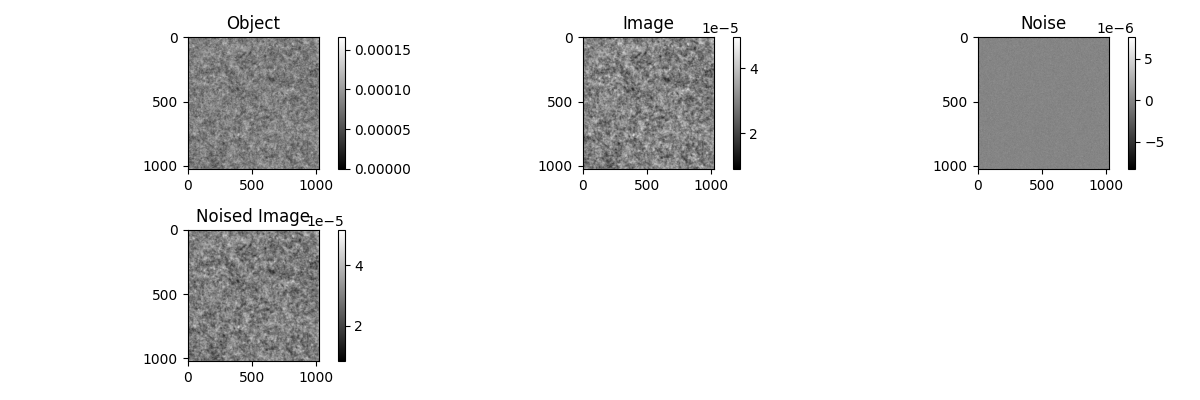
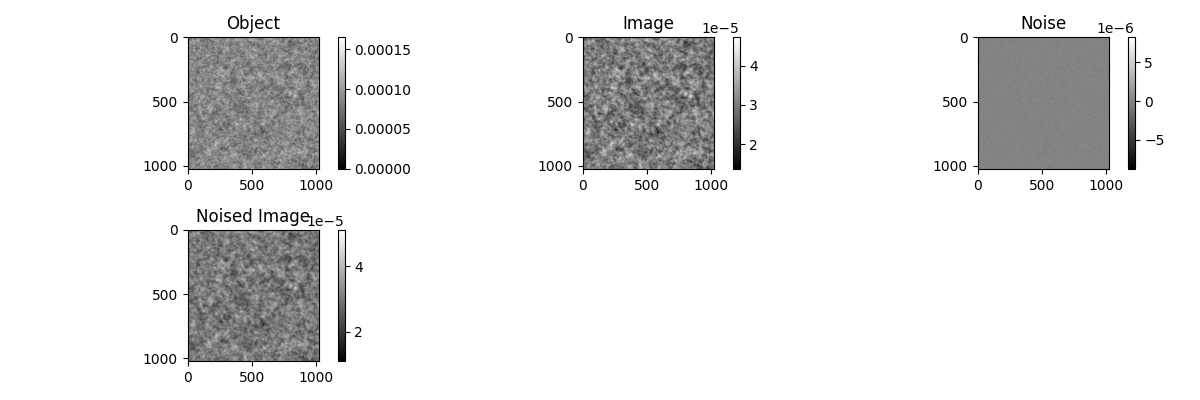
Wrapped up part one : two psf synthetic

diff --git a/Scripts/main.py b/Scripts/main.py
@@ -10,6 +10,20 @@ from plotLib import saveImplot, saveImsubplots, savePlot
 # Define the path to save figures in plotLib SAVE_PATH = 'IO-PTI/outputs/' # Q: Why do we need to use the absolute path ?
 
 def createObject(nPoints = 2048, sampling_rate = 1, p=2, k=1, rho_0=0.01):
+    """
+    Create a synthetic object using a Gaussian random field.
+
+    Args:
+        nPoints (int, optional): Number of points in each dimension of the object. Defaults to 2048.
+        sampling_rate (int, optional): Sampling rate for the frequency grid. Defaults to 1.
+        p (int, optional): Power parameter for the DSP computation. Defaults to 2.
+        k (int, optional): Scaling factor for the DSP computation. Defaults to 1.
+        rho_0 (float, optional): Characteristic frequency for the DSP computation. Defaults to 0.01.
+
+    Returns:
+        np.ndarray: The generated synthetic object.
+        np.ndarray: The DSP of the object.
+    """
     # Define the gaussian field in polar coordinates (freq.)
     ## Define the polar grid
     freq_vector = sp.fft.fftfreq(nPoints, d=1/sampling_rate) # Frequency vector for FFT, Numpy array
@@ -54,11 +68,14 @@ def createObject(nPoints = 2048, sampling_rate = 1, p=2, k=1, rho_0=0.01):
 
     return oObject, dspObject
 
-def openPsfs(system: str):
-    if system == "windows":
-        filename = 'IO-PTI/data/3psfs_zeroPiSur2EtPi.fits' # Open the FITS file on windows
-    elif system == "ubuntu":
-        filename = './data/3psfs_zeroPiSur2EtPi.fits' # Open the FITS file on ubuntu
+def openPsfs():
+    """
+    Open and read PSF data from a FITS file.
+
+    Returns:
+        np.ndarray: The PSF data read from the FITS file.
+    """
+    filename = './data/3psfs_zeroPiSur2EtPi.fits' # Open the FITS file on ubuntu
 
     with fits.open(filename) as hdul:
         # hdul is a list-like object containing all HDUs (Header Data Units)
@@ -79,29 +96,68 @@ def openPsfs(system: str):
 # Bayesian estimation : Derive alpha from 2 extreme PSF and criterion
 from functions import createSyntheticImage
 
-def createImage(alpha, data, oObject):
+def context2Psf(data, N=20):
+    """
+    Prepare the context for PSF processing.
+
+    Args:
+        data (np.ndarray): The PSF data read from the FITS file.
+        N (int, optional): Number of points for the alpha axis. Defaults to 20.
+
+    Returns:
+        tuple: A tuple containing the alpha axis, Jmap axis, and the three PSFs.
+    """
     psf_1, psf_2, psf_3 = data[0], data[1], data[2]
-    N = 20
-    xAxis = [round(i /(N + 1),4) for i in range(N + 1)] # Define the alpha axis
+    xAxis = [round(i /(N),4) for i in range(N + 1)] # Define the alpha axis
     yAxis = np.zeros(N + 1) # Define the Jmap axis
+    
+    return xAxis, yAxis, psf_1, psf_2, psf_3, N 
+    
+def createImage(alpha_0, oObject, psf_1, psf_2, verbose=False):
+    """
+    Create a synthetic image by combining the object with two PSFs and adding noise.
 
-    alpha_0 = alpha
-    simImageNoised, sigma = createSyntheticImage(oObject, psf_1, psf_2, alpha_0, verbose=True)
+    Args:
+        alpha_0 (float): Weighting factor between psf_1 and psf_2.
+        oObject (np.ndarray): The synthetic object.
+        psf_1 (np.ndarray): The first PSF.
+        psf_2 (np.ndarray): The second PSF.
+        verbose (bool, optional): If True, print additional information. Defaults to False.
 
-    return simImageNoised, sigma, xAxis, yAxis, psf_1, psf_3, N
+    Returns:
+        np.ndarray: The synthetic image with noise.
+        float: The standard deviation of the noise.
+    """
+    simImageNoised, sigma = createSyntheticImage(oObject, psf_1, psf_2, alpha_0, verbose=verbose)
+
+    return simImageNoised, sigma
 
 
 ## Joint estimation
 from functions import jointMAP2psf
 
-def jointEstimation(oObject, dspObject, psf_1, psf_3, simImageNoised, sigma, xAxis, yAxis, N):    
+def jointEstimation(oObject, dspObject, psf_1, psf_3, simImageNoised, sigma, xAxis, yAxis, N):
+    """
+    Perform joint estimation of the PSF using the MAP criterion.
+
+    Args:
+        oObject (np.ndarray): The synthetic object.
+        dspObject (np.ndarray): The DSP of the object.
+        psf_1 (np.ndarray): The first PSF.
+        psf_3 (np.ndarray): The third PSF.
+        simImageNoised (np.ndarray): The synthetic image with noise.
+        sigma (float): The standard deviation of the noise.
+        xAxis (list): The alpha axis.
+        yAxis (np.ndarray): The Jmap axis.
+        N (int): Number of points for the alpha axis.
+    """
     pbar = tqdm(desc="Jmap computation", total=100, unit_scale=True)
 
     for i, alpha in enumerate(xAxis):
         res = jointMAP2psf(oObject, dspObject, psf_1, psf_3, alpha, simImageNoised, sigma)
         yAxis[i] = res[0]
         # print(f"Jmap Value for i = {i}: {yAxis[i]}")
-        pbar.update(round(100 /(N + 1)))
+        pbar.update(round(100 /(N - 1)))
     pbar.close()
 
     ### Plot Jmap for quality check
@@ -111,26 +167,98 @@ def jointEstimation(oObject, dspObject, psf_1, psf_3, simImageNoised, sigma, xAx
 ## Marginal estimation
 from functions import marginalML2psf
 
-def marginalEstimation(oObject, dspObject, psf_1, psf_3, simImageNoised, sigma, xAxis, yAxis, N):    
+def marginalEstimation(oObject, dspObject, psf_1, psf_3, simImageNoised, sigma, xAxis, yAxis, N):
+    """
+    Perform marginal estimation of the PSF using the ML criterion.
+
+    Args:
+        oObject (np.ndarray): The synthetic object.
+        dspObject (np.ndarray): The DSP of the object.
+        psf_1 (np.ndarray): The first PSF.
+        psf_3 (np.ndarray): The third PSF.
+        simImageNoised (np.ndarray): The synthetic image with noise.
+        sigma (float): The standard deviation of the noise.
+        xAxis (list): The alpha axis.
+        yAxis (np.ndarray): The Jml axis.
+        N (int): Number of points for the alpha axis.
+    """
+       
     pbar = tqdm(desc="Jml computation", total=100, unit_scale=True)
 
     for i, alpha in enumerate(xAxis):
         res = marginalML2psf(oObject, dspObject, psf_1, psf_3, alpha, simImageNoised, sigma)
         yAxis[i] = res[0]
         # print(f"Jml Value for i = {i}: {yAxis[i]}")
-        pbar.update(round(100 /(N + 1)))
+        pbar.update(round(100 /(N - 1)))
     pbar.close()
 
     ### Plot Jmap for quality check
     savePlot(xAxis, yAxis, "Jml criterion", filename="Jml_criterion", save=True, plot=True, logX=False, logY=False)
 
+## Open image
+from PIL import Image
+
+def openImage(imageName: str):
+    """
+    Open an image file and convert it to a numpy array.
+
+    Args:
+        imageName (str): The name of the image file to open.
+
+    Returns:
+        np.ndarray: The image data as a numpy array.
+        tuple: The shape of the image data.
+    """
+    image = Image.open(imageName)
+    image_data = np.array(image)
+    
+    ### Plot image for visual check
+    saveImplot(image_data, f"Opened image: {imageName}", filename=f"opened_image_{imageName}", save=True, plot=False, logScale=False)
+    shape = image_data.shape
+    
+    return image_data, shape
+
+def updatePsfSize(psf, shape, verbose=False):
+    """
+    Update the size of the PSF to match the shape of the object.
+
+    Args:
+        psf (np.ndarray): The PSF to be updated.
+        shape (tuple): The desired shape (height, width) for the PSF.
+        verbose (bool, optional): If True, save and plot the updated PSF. Defaults to False.
+
+    Returns:
+        np.ndarray: The updated PSF with the desired shape.
+    """
+    res = np.pad(psf, ((2*shape[0] - psf.shape[0])//2, (2*shape[1] - psf.shape[1])//2), 'constant')
+    res = sp.fft.ifftshift(res)
+    res = res[:shape[0], :shape[1]]
+    if verbose:
+        saveImplot(res, "Updated PSF", filename="updated_psf", save=False, plot=False)
+        
+    return res
 
 def main():
-    oObject, dspObject = createObject()
-    psfs = openPsfs("ubuntu")
-    simImageNoised, sigma, xAxis, yAxis, psf_1, psf_3, N = createImage(0.3, psfs, oObject)
-    jointEstimation(oObject, dspObject, psf_1, psf_3, simImageNoised, sigma, xAxis, yAxis, N)
-    marginalEstimation(oObject, dspObject, psf_1, psf_3, simImageNoised, sigma, xAxis, yAxis, N)
+    psfs = openPsfs()
+    xAxis, yAxis, psf_1, psf_2, psf_3, N = context2Psf(psfs, N=40)
+    
+    # Synthetic object / image estimation, with two PSFs
+    oObject, dspObject = createObject(nPoints=2048, sampling_rate=1, p=2, k=1, rho_0=0.01)
+    psf_A, psf_C = updatePsfSize(psf_1, oObject.shape), updatePsfSize(psf_3, oObject.shape)
+    simImageNoised, sigma = createImage(0.3, oObject, psf_A, psf_C, verbose=True)
+    jointEstimation(oObject, dspObject, psf_A, psf_C, simImageNoised, sigma, xAxis, yAxis, N)
+    marginalEstimation(oObject, dspObject, psf_A, psf_C, simImageNoised, sigma, xAxis, yAxis, N)
+    
+    # Real object / image estimation, with two PSFs
+    
+    # im, imShape = openImage("./IO-PTI/data/extrait1_8b_CD1_20110502165033.tif")
+    # psf_A, psf_B, psf_C = updatePsfSize(psf_1, imShape), updatePsfSize(psf_2, imShape), updatePsfSize(psf_3, imShape)
+    # jointEstimation(oObject, dspObject, psf_A, psf_C, im, sigma, xAxis, yAxis, N)
+    # marginalEstimation(oObject, dspObject, psf_A, psf_C, im, sigma, xAxis, yAxis, N)
+    
+    # Synthetic object / image estimation, with three PSFs
+    
+    # Real object / image estimation, with three PSFs
 
     
 if __name__ == "__main__":

diff --git a/Scripts/functions.py b/Scripts/functions.py
@@ -28,16 +28,16 @@ def createSyntheticImage(oObject, psf_1, psf_2, alpha_0, verbose=False):
     # Define the synthetic image
     ## Define PSF
     psf = alpha_0 * psf_1 + (1 - alpha_0) * psf_2 # The final PSF is a linear combination of the two PSFs
-    psfPadded = np.pad(psf, (768, 768), 'constant') # Object is of size 1024x1024, derived from a dsp of size 2048x2048
+    # psfPadded = np.pad(psf, (768, 768), 'constant') # Object is of size 1024x1024, derived from a dsp of size 2048x2048
     
     ### Plot psf for quality check
     if verbose:
-        saveImplot(psfPadded, f"PSF of the synthetic image for alpha = {alpha_0}", filename=f"PSF of the synthetic image for alpha = {alpha_0}", save=True, plot=False)
+        saveImplot(sp.fft.fftshift(psf), f"PSF of the synthetic image for alpha = {alpha_0}", filename=f"PSF of the synthetic image for alpha = {alpha_0}", save=True, plot=False)
 
 
     ## Shift and crop the PSF to corresponding object size and coordinates reference
-    psfPadded = sp.fft.ifftshift(psfPadded)
-    psfPadded = psfPadded[:1024, :1024]
+    # psfPadded = sp.fft.ifftshift(psfPadded)
+    # psfPadded = psfPadded[:1024, :1024]
     
     
     # ## Compute the Fourier transform of the PSF
@@ -49,7 +49,7 @@ def createSyntheticImage(oObject, psf_1, psf_2, alpha_0, verbose=False):
 
 
     ## Compute the simulated image
-    simImage = sp.fft.ifft2(sp.fft.fft2(oObject) * sp.fft.fft2(psfPadded)) 
+    simImage = sp.fft.ifft2(sp.fft.fft2(oObject) * sp.fft.fft2(psf)) 
     sigma = 0.01 * np.max(oObject)
     noise = sigma * np.random.randn(*simImage.shape) # Noise corresponding roughly to photon noise for an average of 10 000 photons/pixels
     simImageNoised = simImage + noise
@@ -79,12 +79,12 @@ def jointMAP2psf(oObject, dspObject, psf_1, psf_2, alpha, simImageNoised, sigma)
        
     ## Tested alpha and PSF
     h = alpha * psf_1 + (1 - alpha) * psf_2 # The final PSF is a linear combination of the two PSFs
-    hPad = np.pad(h, (768, 768), 'constant') # Object is of size 1024x1024, derived from a dsp of size 2048x2048
+    # hPad = np.pad(h, (768, 768), 'constant') # Object is of size 1024x1024, derived from a dsp of size 2048x2048
     
     
-    ## Shift and crop the PSF to corresponding object size and coordinates reference
-    hPad = sp.fft.ifftshift(hPad)
-    hPad = hPad[:1024, :1024]
+    # ## Shift and crop the PSF to corresponding object size and coordinates reference
+    # hPad = sp.fft.ifftshift(hPad)
+    # hPad = hPad[:1024, :1024]
 
 
     ## Compute the noise and signal DSPs
@@ -99,13 +99,13 @@ def jointMAP2psf(oObject, dspObject, psf_1, psf_2, alpha, simImageNoised, sigma)
         0.5 * N * np.log(dspNoise) + # Here we removed the N**2 factor because it led to a very large negative offset (1e12 order of magnitude). I think it has already been taken into account in the definition of the dsp    
         0.5 * np.sum(np.log(dspObject)) +
         0.5 * np.sum(
-            np.abs(sp.fft.fft2(simImageNoised) - sp.fft.fft2(hPad) * sp.fft.fft2(meanObject))**2 / # Equivalent to np.abs(sp.fft.fft2(noise))**2
+            np.abs(sp.fft.fft2(simImageNoised) - sp.fft.fft2(h) * sp.fft.fft2(meanObject))**2 / # Equivalent to np.abs(sp.fft.fft2(noise))**2
             dspObject /
-            (np.abs(sp.fft.fft2(hPad))**2 + dspNoise / dspObject) # Q: Is there an impact of using the padded PSF here ?
+            (np.abs(sp.fft.fft2(h))**2 + dspNoise / dspObject) # Q: Is there an impact of using the padded PSF here ?
         )
     )
     
-    return Jmap, dspNoise, hPad, N
+    return Jmap, dspNoise, h, N
 
 def marginalML2psf(oObject, dspObject, psf_1, psf_2, alpha, simImageNoised, sigma,):
     """Performs the marginal estimation of the object and the PSF using the Jmap criterion. The criterion is computed for the given object, the two PSFs and the alpha value. The simulated image is computed using the object and the PSF. The noise is added to the simulated image. The noise and signal DSPs are computed. The Jmap criterion is computed and returned.

diff --git a/Scripts/plotLib.py b/Scripts/plotLib.py
@@ -11,7 +11,6 @@ from math import ceil
 from matplotlib import pyplot as plt
 from matplotlib.colors import LogNorm
 
-# SAVE_PATH = 'IO-PTI/outputs/' # Windows
 SAVE_PATH = './outputs/'  # Ubuntu
 
 def savePlot(x, y, title, filename="output", save=False, plot=True, logX=False, logY=False):
